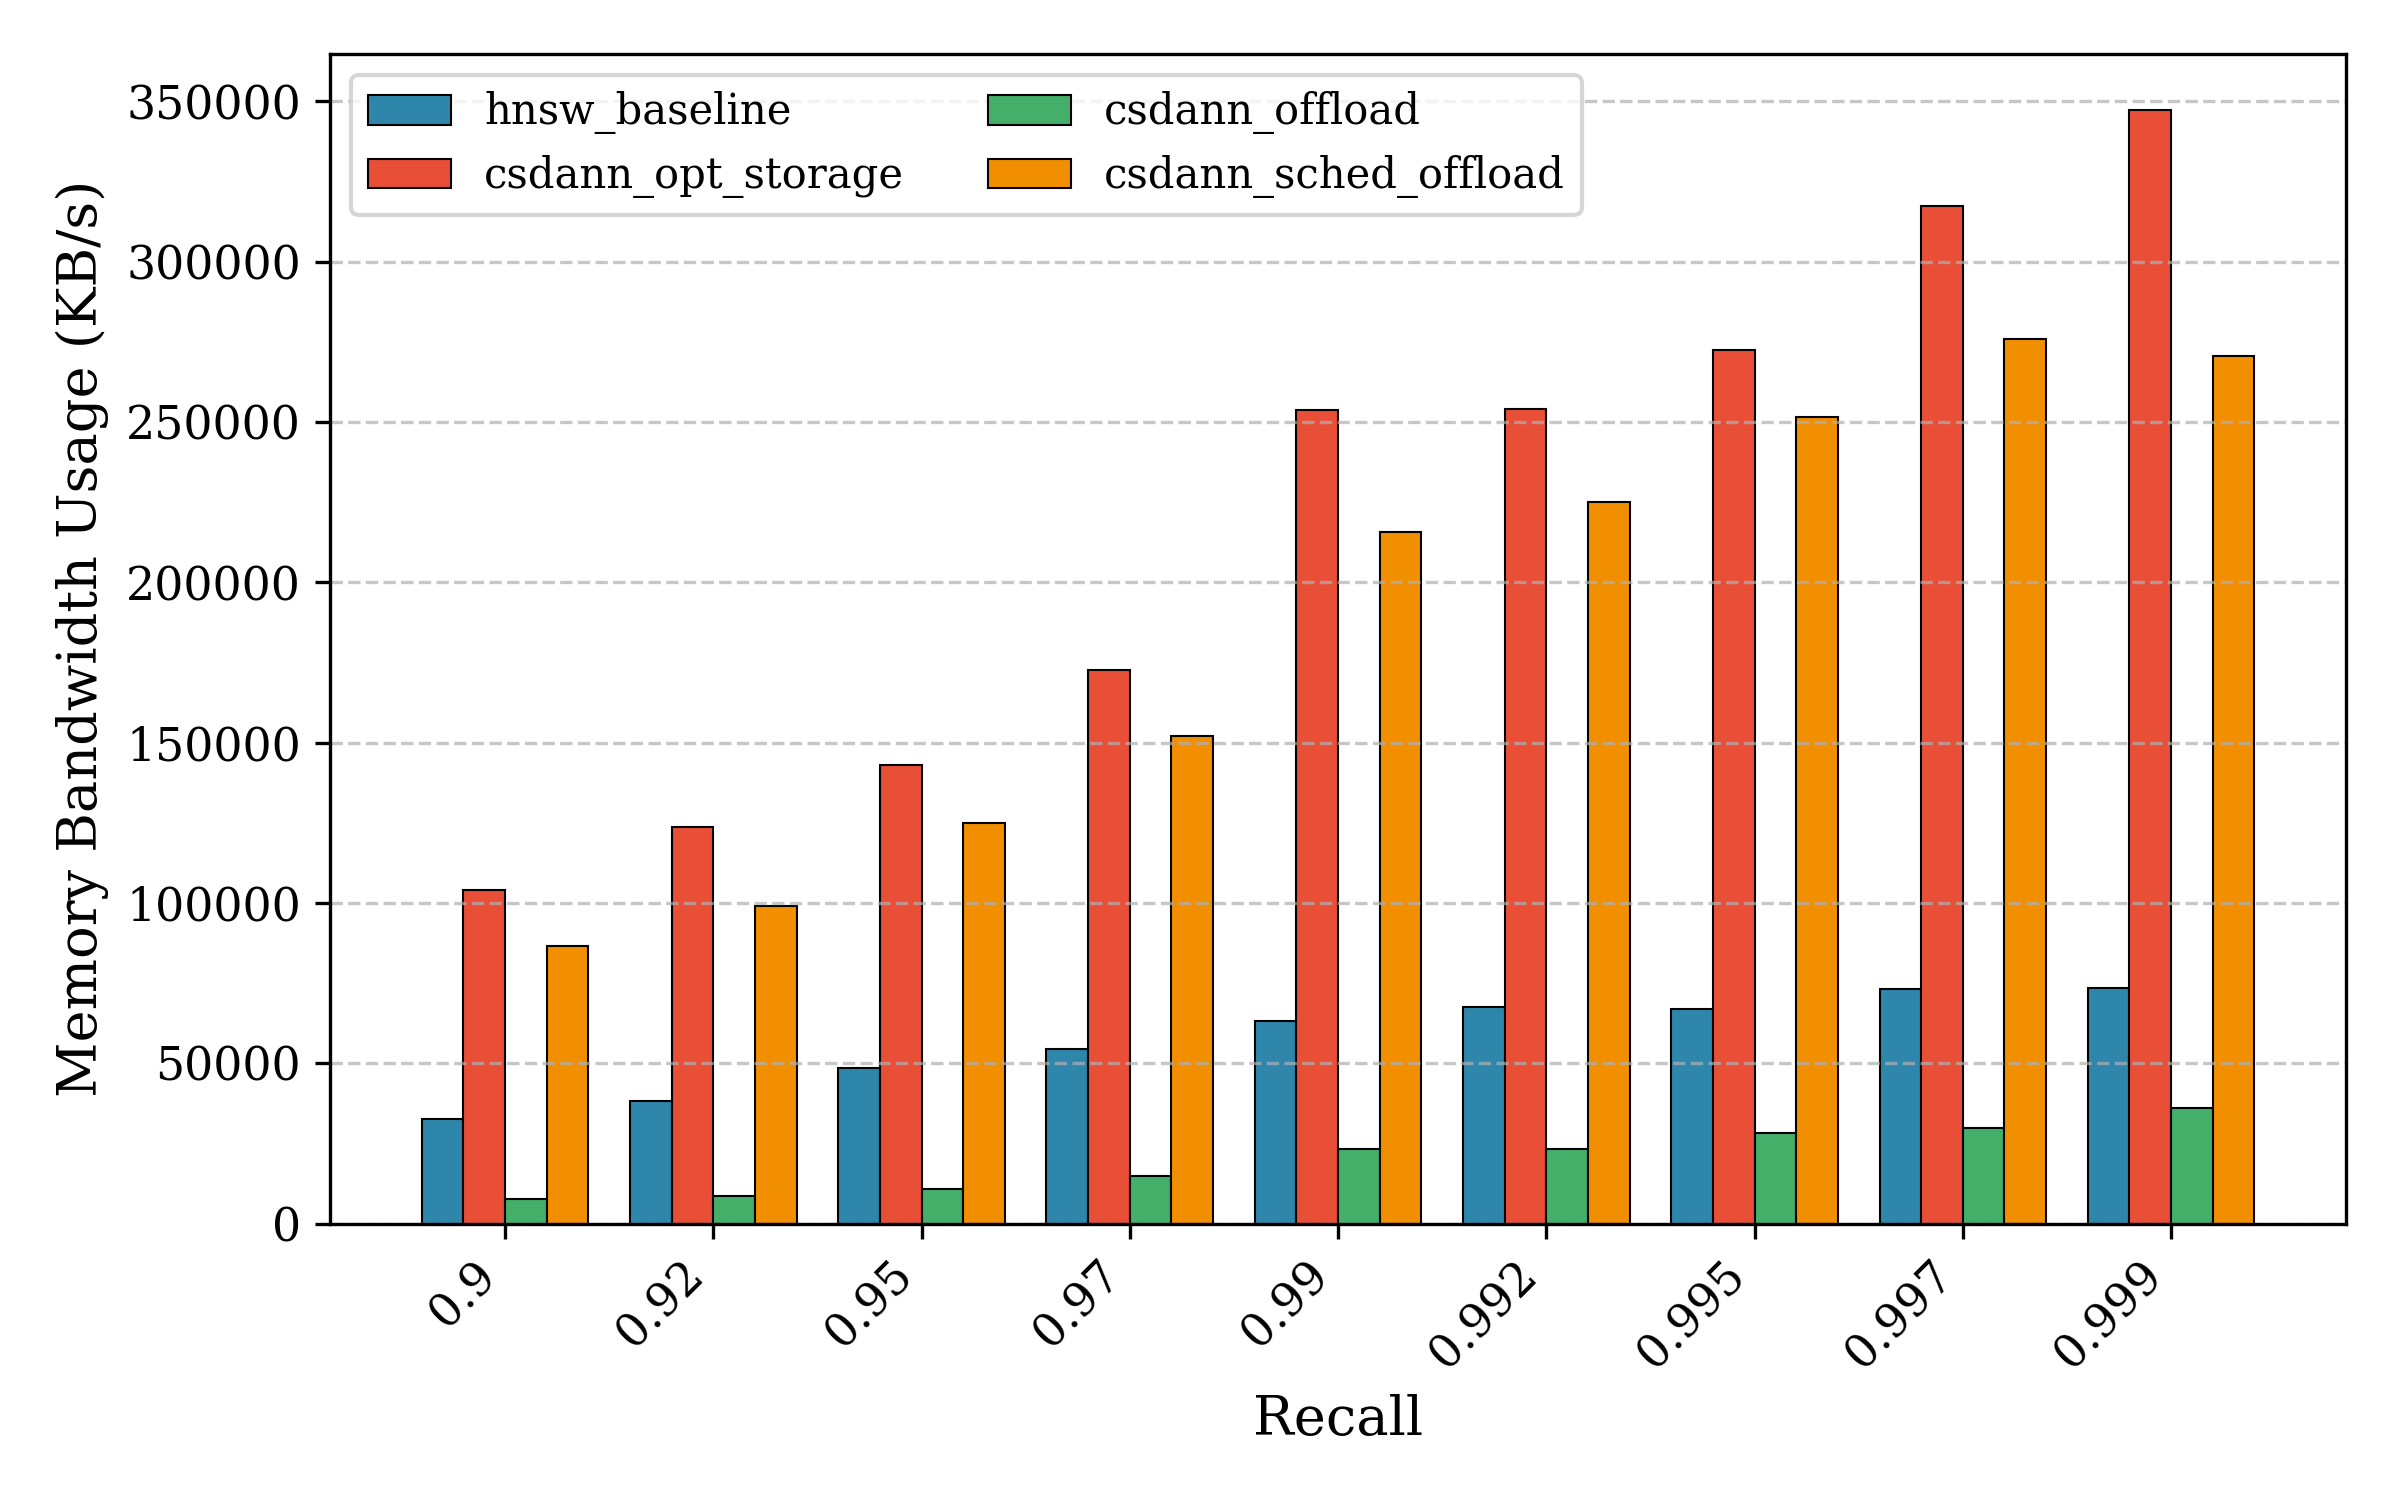
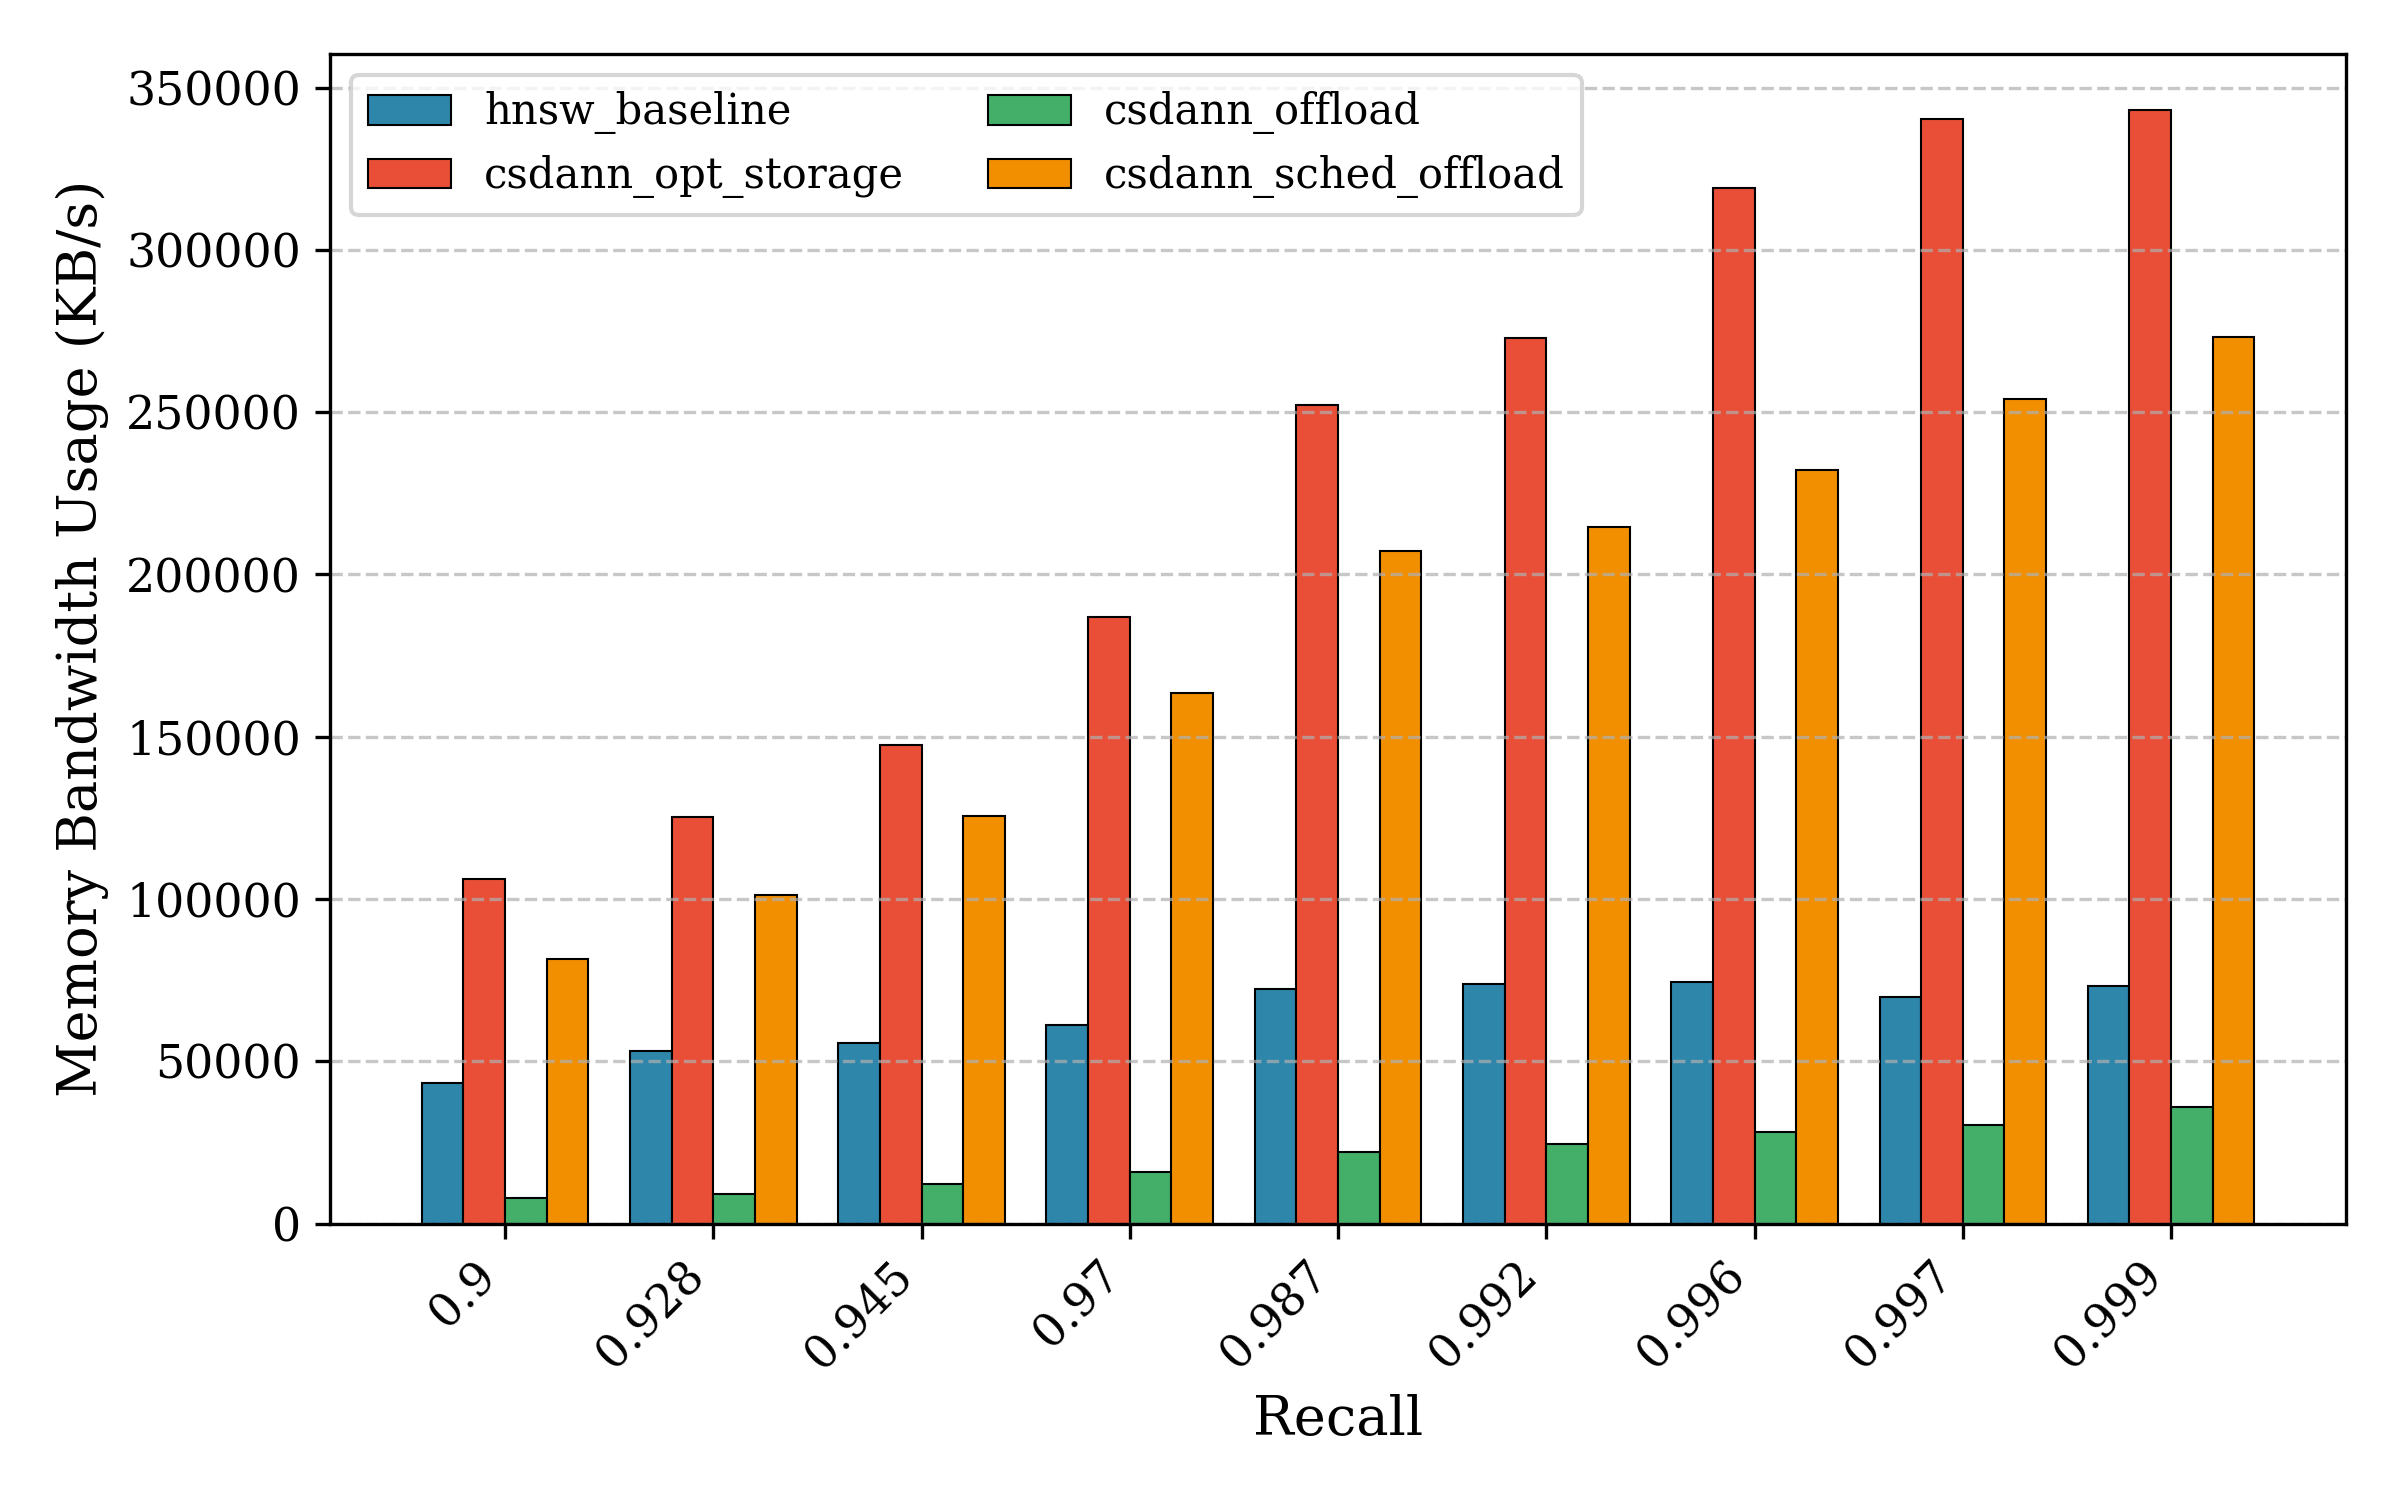
add memory bandwidth

diff --git a/result_analyse/data.py b/result_analyse/data.py
@@ -1,12 +1,12 @@
-recall_target = [0.9, 0.92, 0.95, 0.97, 0.99, 0.992, 0.995, 0.997, 0.999]
+recall_target = [0.9, 0.928, 0.945, 0.970, 0.987, 0.992, 0.996, 0.997, 0.999]
 available_cache_pages = 128
 
 # available_cache_pages
 # beam_width
 # cpu_cores
 # cache_hit_rate
-# C: float = 1, 算法IO复杂度系数
-# B: float = 1, 算法IO复杂度系数( n_op = (C * K / (1 - recall))^B )
+# C: float = 1, 算法IO常数
+# B: float = 1, 算法IO复杂度系数
 # K: float = 1, 数据集稀疏度，值越大表示搜索的IO次数越多
 # T_cpu_base_us: float = 500.0  // 在内存图中的导航时间
 # T_cpu_per_node_us: float = 20.0  // 每处理一个节点的CPU时间开销
@@ -15,9 +15,9 @@ available_cache_pages = 128
 
 csdann_sched_offload_beam_width = 8
 csdann_sched_offload_cpu_cores = 7
-csdann_sched_offload_cache_hit_rate = [0.60, 0.58, 0.55, 0.53, 0.50, 0.45, 0.40, 0.37, 0.32]
-csdann_sched_offload_C = 2
-csdann_sched_offload_B = 7.0 / 8.0
+csdann_sched_offload_cache_hit_rate = [0.62, 0.58, 0.55, 0.53, 0.48, 0.45, 0.42, 0.37, 0.32]
+csdann_sched_offload_C = 3
+csdann_sched_offload_B = 1.1
 csdann_sched_offload_cpu_base_us = 500
 csdann_sched_offload_cpu_per_node_us = 19
 csdann_sched_offload_ssd_cpu_cores = 2
@@ -25,9 +25,9 @@ csdann_sched_offload_csd_schedular_on = True
 
 csdann_offload_beam_width = 8
 csdann_offload_cpu_cores = 7
-csdann_offload_cache_hit_rate = [0.60, 0.58, 0.55, 0.53, 0.50, 0.45, 0.40, 0.37, 0.32]
-csdann_offload_C = 2
-csdann_offload_B = 7.0 / 8.0
+csdann_offload_cache_hit_rate = [0.62, 0.58, 0.55, 0.53, 0.48, 0.45, 0.42, 0.37, 0.32]
+csdann_offload_C = 3
+csdann_offload_B = 1.1
 csdann_offload_cpu_base_us = 800
 csdann_offload_cpu_per_node_us = 17
 csdann_offload_ssd_cpu_cores = 2
@@ -35,26 +35,26 @@ csdann_offload_csd_schedular_on = False
 
 csdann_opt_storage_beam_width = 8
 csdann_opt_storage_cpu_cores = 7
-csdann_opt_storage_cache_hit_rate = [0.60, 0.58, 0.55, 0.53, 0.50, 0.45, 0.40, 0.37, 0.32]
-csdann_opt_storage_C = 2
-csdann_opt_storage_B = 7.0 / 8.0
+csdann_opt_storage_cache_hit_rate = [0.62, 0.58, 0.55, 0.53, 0.48, 0.45, 0.42, 0.37, 0.32]
+csdann_opt_storage_C = 3
+csdann_opt_storage_B = 1.1
 csdann_opt_storage_cpu_base_us = 500
 csdann_opt_storage_cpu_per_node_us = 20
 
-hnsw_baseline_C = 2.15
-csdann_reorder_C = 2
+hnsw_baseline_C = 8
+csdann_reorder_C = 7
 
-hnsw_baseline_B = 9.0 / 10.0
-csdann_reorder_B = 7.0 / 8.0
+hnsw_baseline_B = 1.3
+csdann_reorder_B = 1.1
 
 hnsw_baseline_cpu_cores = 6
 csdann_reorder_cpu_cores = 6
 
 hnsw_baseline_beam_width = 1
-csdann_reorder_beam_width = 8
+csdann_reorder_beam_width = 1
 
-hnsw_baseline_cache_hit_rate = [0.45, 0.38, 0.36, 0.35, 0.33, 0.30, 0.25, 0.20, 0.17]
-csdann_reorder_cache_hit_rate = [0.50, 0.48, 0.45, 0.43, 0.40, 0.35, 0.30, 0.27, 0.22]
+hnsw_baseline_cache_hit_rate = [0.46, 0.38, 0.36, 0.35, 0.33, 0.28, 0.25, 0.22, 0.17]
+csdann_reorder_cache_hit_rate = [0.47, 0.43, 0.42, 0.39, 0.38, 0.35, 0.34, 0.33, 0.31]
 
 hnsw_baseline_cpu_base_us = 2000
 csdann_reorder_cpu_base_us = 2000

diff --git a/result_analyse/simulator.py b/result_analyse/simulator.py
@@ -1,5 +1,9 @@
 import numpy as np
 
+def io_num(effective_recall, C, K, B):
+    error_rate = 1.0 - effective_recall
+    return C + K * np.power(error_rate, -B)
+
 def simulate_performance(
     # 召回率
     recall_target: float,
@@ -11,8 +15,8 @@ def simulate_performance(
     # 算法模型参数
     beam_width: int,            # 搜索束宽，表示一次向SSD并行提交的IO个数
     cache_hit_rate: float,      # 缓存命中率 (0.0 - 1.0)
-    C: float = 1,  # 算法IO复杂度系数
-    B: float = 1,  # 算法IO复杂度系数( n_op = (C / (1 - recall))^B )
+    C: float = 1,  # 算法IO复杂度系数，固有I/O
+    B: float = 1,  # 算法IO复杂度系数，维度相关
     K: float = 1,  # 数据集稀疏度，值越大表示搜索的IO次数越多
     T_cpu_base_us: float = 500.0, # 在内存图中的导航时间
     T_cpu_per_node_us: float = 20.0, # 每处理一个节点的CPU时间开销
@@ -42,7 +46,7 @@ def simulate_performance(
 
     # 向量化生成随机 IO
     error_rate = 1.0 - effective_recall
-    base_logical_ios = (C * K * (1.0 / error_rate)) ** B
+    base_logical_ios = C + K * np.power(error_rate, -B)
 
     # 带有波动的逻辑IO
     sim_logical_ios = np.random.normal(loc=base_logical_ios, scale=base_logical_ios * jitter_io_complexity, size=sim_rounds)

diff --git a/result_analyse/plot.py b/result_analyse/plot.py
@@ -1,5 +1,5 @@
 from data import *
-from simulator import simulate_performance
+from simulator import simulate_performance, io_num
 import matplotlib.pyplot as plt
 from matplotlib.transforms import Bbox
 import numpy as np
@@ -758,8 +758,15 @@ def plot_memory_bandwidth():
     print("memory_bandwidth 柱状图已保存到 memory_bandwidth/ 目录")
     print(f"单位: {unit_label}, 缩放因子: {scale_factor}")
 
-# plot_result_of_baseline_and_reorder()
-# plot_result_of_hnsw_baseline_and_csdann_opt_storage()
-# plot_result_of_baseline_and_csdann_opt_storage_and_csdann_offload()
-# plot_result_of_baseline_and_csdann_opt_storage_and_csdann_sched_offload()
+plot_result_of_baseline_and_reorder()
+plot_result_of_hnsw_baseline_and_csdann_opt_storage()
+plot_result_of_baseline_and_csdann_opt_storage_and_csdann_offload()
+plot_result_of_baseline_and_csdann_opt_storage_and_csdann_sched_offload()
 plot_memory_bandwidth()
+
+# print(io_num(0.9, hnsw_baseline_C, 0.25, hnsw_baseline_B))
+# print(io_num(0.99, hnsw_baseline_C, 0.25, hnsw_baseline_B))
+# print(io_num(0.995, hnsw_baseline_C, 0.25, hnsw_baseline_B))
+# print(io_num(0.9, csdann_reorder_C, 0.25, csdann_reorder_B))
+# print(io_num(0.99, csdann_reorder_C, 0.25, csdann_reorder_B))
+# print(io_num(0.995, csdann_reorder_C, 0.25, csdann_reorder_B))
